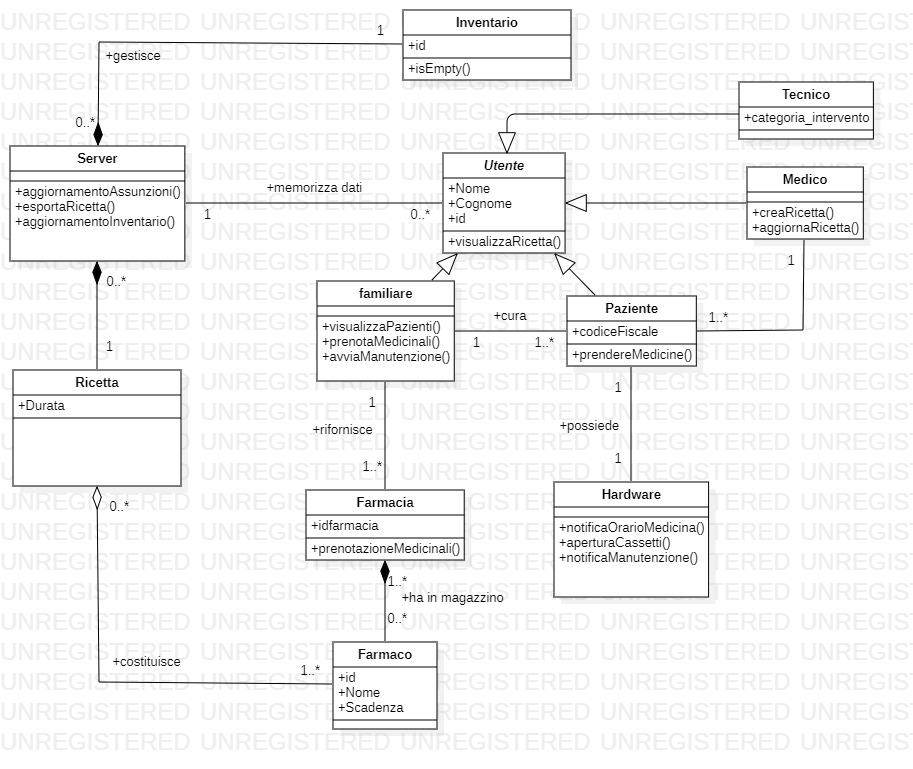
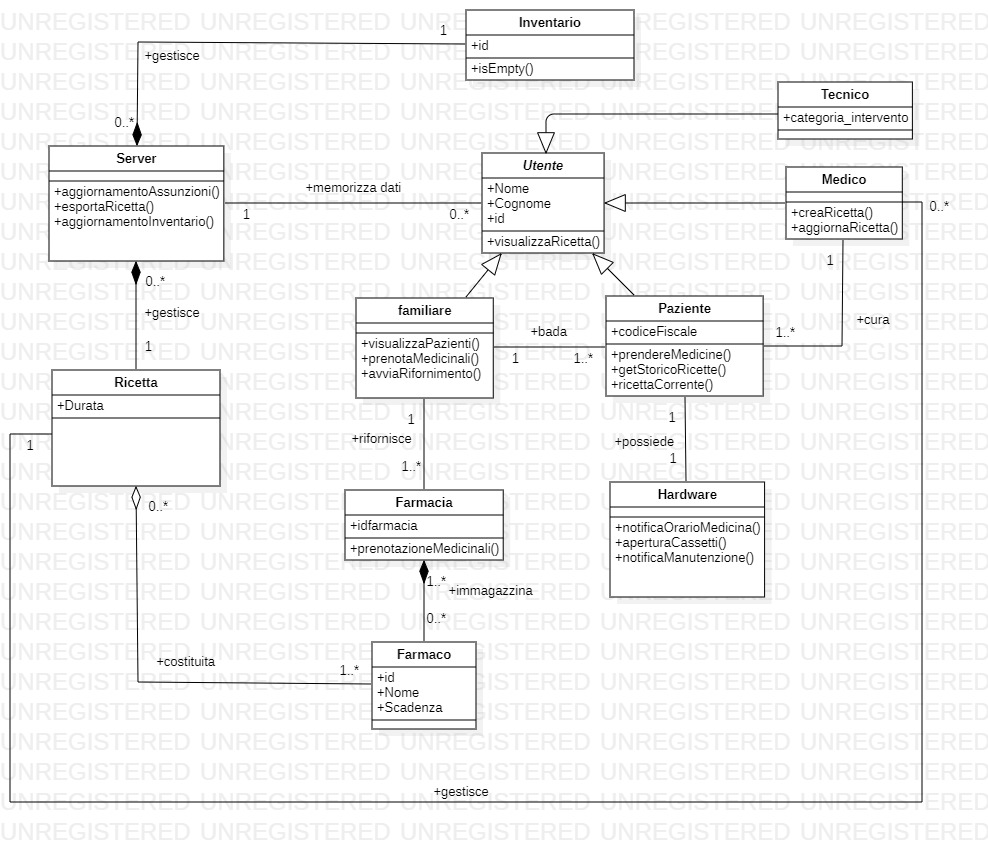
final release

Changed region(s): [[0.0, 0.0, 0.9507, 0.9675], [0.1227, 0.7802, 0.2453, 0.8114], [0.1227, 0.8427, 0.184, 0.8739]]

diff --git a/README.md b/README.md
@@ -4,7 +4,7 @@
 
 Il sistema consiste in un applicazione che ha l'obiettivo di monitorare e aiutare pazienti anziani che hanno bisogno di assumere quantità precise e in maniera regolare di farmaci.
 Il sistema dovrà notificare al paziente quando assumere i medicinali in base alla ricetta caricata sul server da parte del medico curante.
-La notifica avviene tramite un sistema hardware composto da led, display e vani contenenti medicinali che si apriranno automaticamente, o manualmente dal paziente oppure da un qualsiasi utente, tramite applicazione.
+La notifica avviene tramite un sistema hardware composto da led, display, buzzers e vani contenenti medicinali che si apriranno automaticamente, o manualmente dal paziente oppure da un qualsiasi utente, tramite applicazione.
 L'applicazione interagisce con un server che hai il compito di memorizzare la quantità e la frequenza riguardo le assunzioni dei medicinali.
 Il sistema può interagire con una farmacia con lo scopo di prenotare i medicinali per il rifornimento.
 
@@ -12,7 +12,7 @@ Nello specifico, il sistema verrà usato da 4 tipologie di utenti. Ad ognuna di 
 
 * Il **Medico**, dovrà essere in grado di accedere al database e di ricercare i pazienti in modo da associare ad essi una specifica ricetta. La ricetta può essere importata attraverso una foto o tramite un form da lui personalizzabile.
 
-* Il **Familiare**, dovrà essere in grado di controllare il dispositivo **Hardware** per un eventuale rifornimento di medicinali, visualizzare lo storico delle assunzione da parte del **Paziente** e controllare il quantitativo di medicinali rimanenti nell'apposito cassetto dell'**Hardware**.
+* Il **Familiare**, dovrà essere in grado di controllare il dispositivo **Hardware** per un eventuale rifornimento di medicinali, e nel caso prenotare i medicinali necessari da una farmacia, visualizzare lo storico delle assunzioni da parte del **Paziente** e controllare il quantitativo di medicinali rimanenti nell'apposito cassetto dell'**Hardware**.
 
 * Il **Paziente**, viene notificato dal sistema **Hardware** ad ogni occorrenza dell'assunzione. Dopo l'assunzione il **Paziente** potrà notificare l'assunzione del medicinale tramite la chiusura del cassetto, attraverso un pulsante incluso nel sistema **Hardware**
 
@@ -25,15 +25,17 @@ Nello specifico, il sistema verrà usato da 4 tipologie di utenti. Ad ognuna di 
     * Crea la ricetta tramite app
     * Aggiorna una ricetta esistente
 * **Familiare**
-    * Viene notificato del rifornimento dei medicinali dal sistema, inoltre una volta notificato può prenotare i medicinali presso una farmacia comunicando tramite l'applicazione la ricetta del paziente che ha bisogno del rifornimento.
+    * Viene notificato del rifornimento dei medicinali dal sistema.
+    * Può prenotare i medicinali presso una farmacia
 * **Paziente**
-    * Il paziente notifica l'assunzione aprendo e chiudendo i cassetti.
+    * Il paziente viene notificato dall' **Hardware** tramite suoni e luci.
+    * Il paziente notifica l'assunzione chiudendo i cassetti.
 * **Farmacia**
     * Riceve le prenotazioni dei medicinali
 * **Tecnico**
-    * Esegue la manutenzione notificata dal sistema
+    * Esegue la manutenzione, dell'**Hardware**, notificata dal sistema.
 * **Hardware**
-    * Notifica orario assunzione
+    * Notifica orario assunzione, tramite suoni e luci.
     * Gestisce l'apertura e la chiusura dei cassetti
     * Notifica le manutenzioni
     * Notifica gli eventuali rifornimenti
@@ -64,11 +66,11 @@ Quindi i dati di ogni singolo utente non devono essere salvati in chiaro ma dovr
 | :----------------------------- |
 | **Attori**: Paziente, Hardware |
 | **Precondizioni**  <ol><li>Il caso d'uso inizia quando l'orario è prossimo all'ora dell'assunzione del medicinale</ol>|
-| **Sequenza degli eventi** <ol><li>Il paziente clicca il pulsante per aprire il cassetto e prendere la medicina</ol>|
+| **Sequenza degli eventi** <ol><li>Il paziente viene notificato dall'hardware</li><li>L'Hardware apre automaticamente il cassetto</li><li>Il paziente clicca il pulsante per la chiusura e notifica l'assunzione<li>L'Hardware chiude il cassetto</ol>|
 | **Post condizioni** <ol><li> L'assunzione è stata registrata sul sistema</ol>|
-| **Sequenza alternativa 1** <ol><li>Il paziente non clicca il pulsante per prendere la medicina</ol>|
+| **Sequenza alternativa 1** <ol><li>Il paziente viene notificato dall'hardware<li>L'Hardware apre automaticamente il cassetto</li><li>Il paziente non clicca il pulsante per chiudere il cassetto e non notifica l'assunzione</ol>|
 | **Post condizioni**  <ol><li>La non assunzione è stata registrata sul sistema</li><li>Il familiare viene notificato della non assunzione</ol>|
-| **Sequenza alternativa 2** <ol><li>La medicina non è presente</li><li>Clicca pulsante emergenza</ol>|
+| **Sequenza alternativa 2** <ol><li>La medicina non è presente</li></ol>|
 | **Post condizioni** <ol><li>La non assunzione è stata registrata sul sistema</li><li>Il familiare viene avvisato con una notifica di urgenza</ol>|
 
 
@@ -89,6 +91,10 @@ Quindi i dati di ogni singolo utente non devono essere salvati in chiaro ma dovr
 |**Post condizioni** <ol><li>Al familiare del paziente viene notificato il caricamento della ricetta</li><li>Il familiare decide se esportare la ricetta in pdf o mandarla via mail alla farmacia</li><li>Si passa al caso d'uso in cui viene effettuata la prenotazione dei medicinali</li></ol>|
 |**Sequenza alternativa 1** <ol><li>Il dottore crea la ricetta</li><li>Il sistema carica la ricetta</li><li>Il sistema fa un controllo sull'inventario</li><li>Se necessario il sistema aggiorna l'inventario</li><li>il familiare non vede la notifica della ricetta</li></ol>|
 |**Post condizioni** <ol><li>Al familiare viene ripetuta la notifica ogni 5 minuti finché non la visulizza</li><li>Il familiare decide se esportare la ricetta in pdf o mandarla via mail alla farmacia</li><li>Si passa al caso d'uso in cui viene effettuata la prenotazione dei medicinali</li></ol>|
+
+## **Diagramma delle classi**
+
+![DC](UML/ClassDiagram1.jpg)
 
 ## **Test di livello zero**
 #### I Test di livello zero vengono effettuati sul prodotto finale per verificarne la corretta funzionalità e la corrispondenza di quanto richiesto dal committente. Tali test coincidono, generalmente, con i casi d'uso e quindi generalmete chi effettua questi test non ha bisogno di conoscere il codice che c'è dietro. 
@@ -128,16 +134,15 @@ Quindi i dati di ogni singolo utente non devono essere salvati in chiaro ma dovr
 | Il familiare ha bisogno di medicinali che mancano alla farmacia che ha come preferita |
 | Risultato atteso : Viene mostrato un elenco delle farmacie più vicine che hanno disponibile quel medicinale |
 
-
-## **Diagramma delle classi**
-
-![DC](UML/ClassDiagram1.jpg)
-
-## **Sequence diagrams**
+## **Sequence diagram**
 
 ### *Rifornimento medicinali*
 
 ![sd rifornimento medicinale](UML/Rifornimentomedicinali.jpg)
+
+## **Diagramma delle classi di secondo livello**
+
+![CD2](UML/ClassDiagram2.jpg)
 
 ## **ER Diagram**
 
@@ -147,6 +152,3 @@ Quindi i dati di ogni singolo utente non devono essere salvati in chiaro ma dovr
 
 ![compd](UML/ComponentDiagram1.jpg)
 
-## **Diagramma delle classi di secondo livello**
-
-![CD2](UML/ClassDiagram2.jpg)
